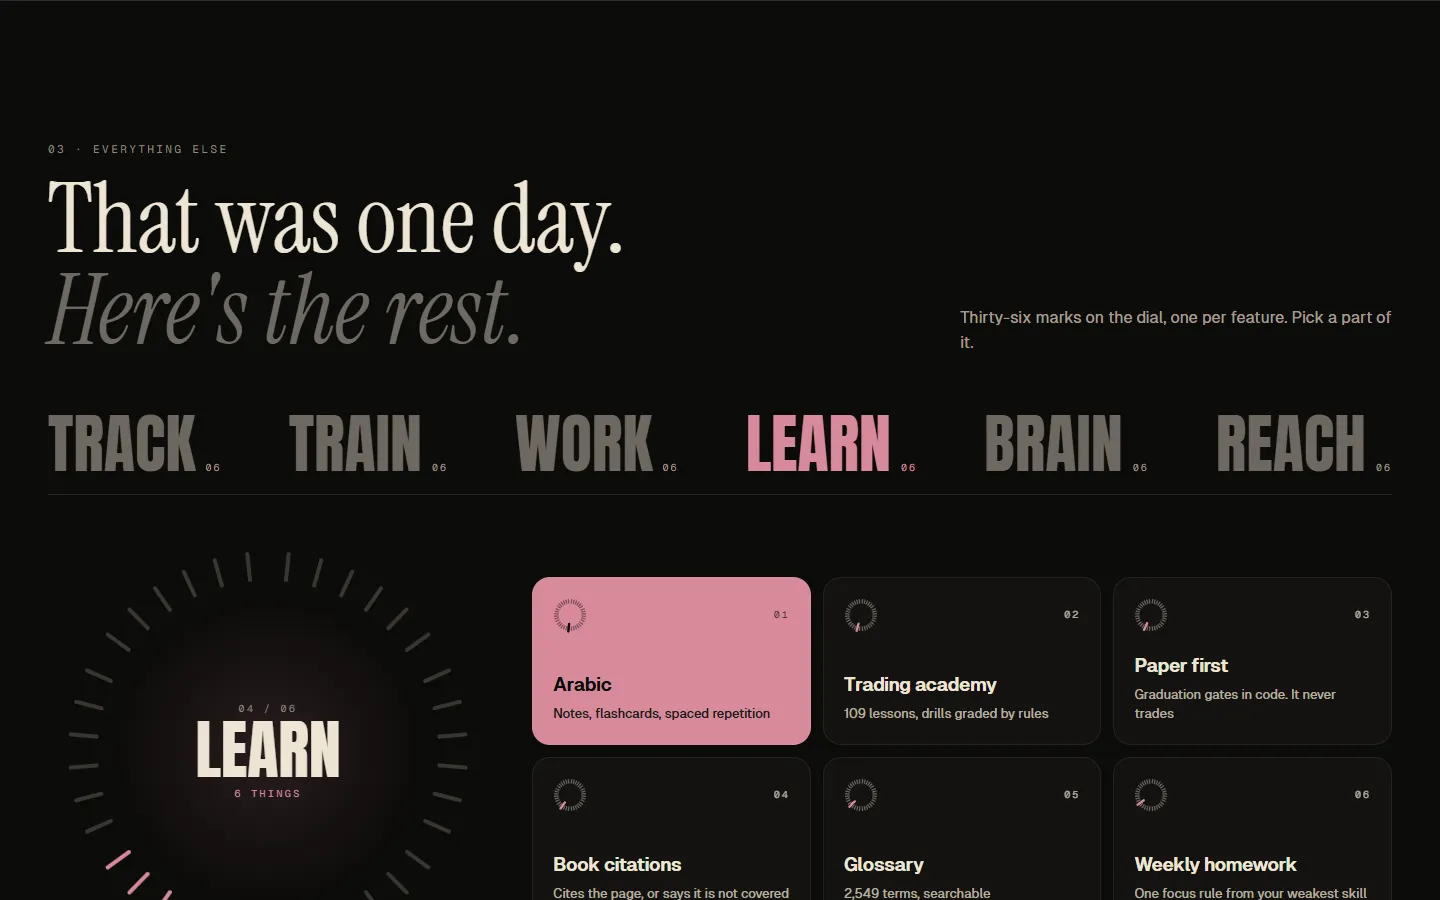
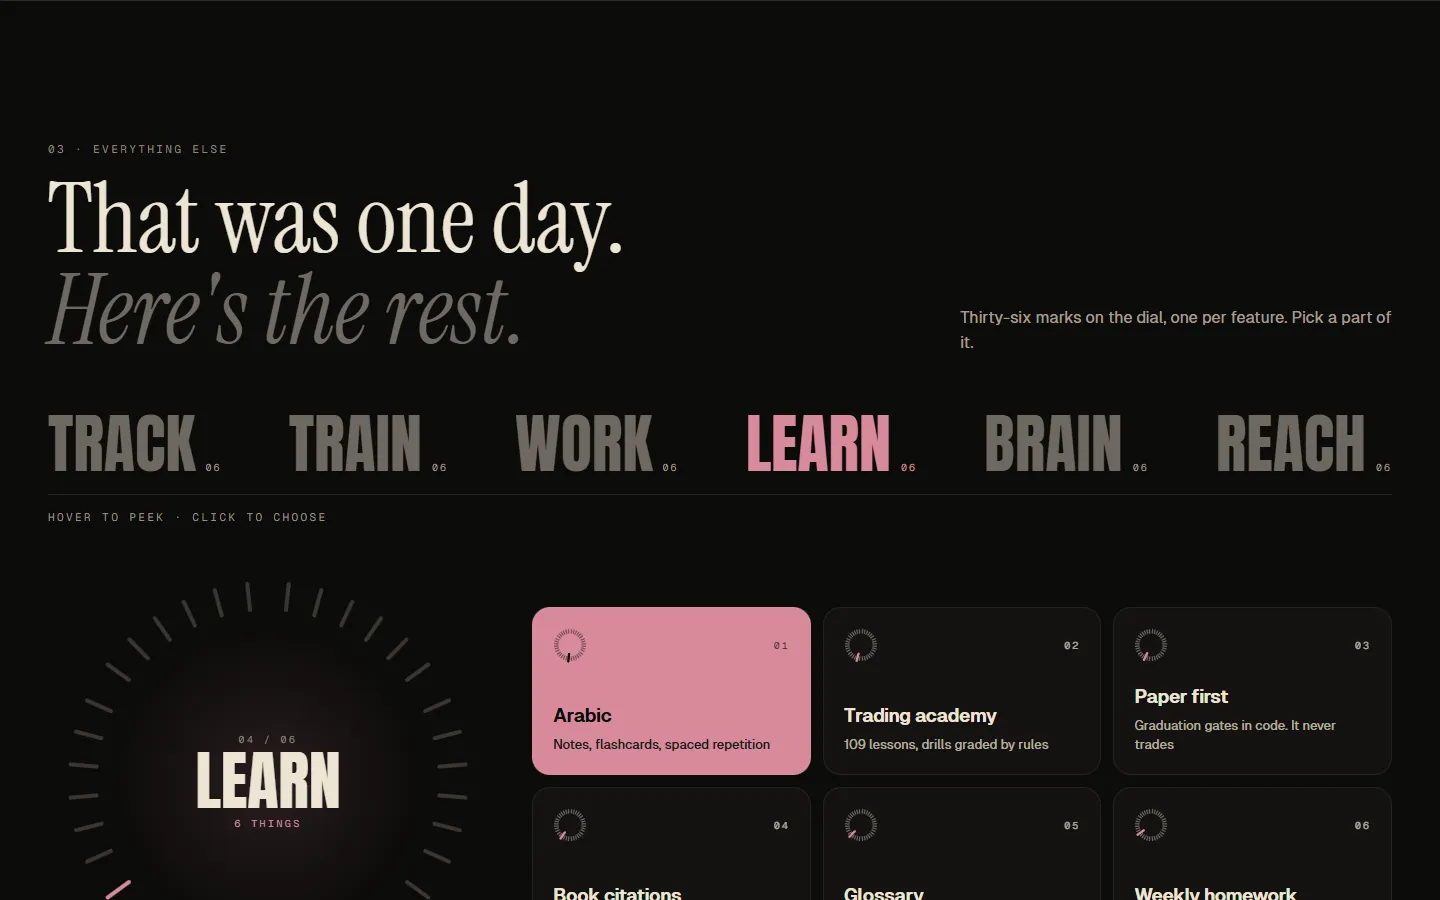
Section 03: hover to peek, click to choose
With a real hover pointer, resting on a word for ~120 ms previews its
group: the word lifts to the persona tint, and the ring's lit arc, the
centre label and the cards cross-fade to it. Leaving the row returns to
the chosen group; click and keyboard still select. Fades are taken over,
never stacked. A "HOVER TO PEEK · CLICK TO CHOOSE" hint sits under the
row on hover devices. Clicks now cross-fade too (0.3 s; peeks 0.22 s).
Four new tests; desktop-03-rest retaken.

diff --git a/tests/peek.spec.ts b/tests/peek.spec.ts
@@ -1,0 +1,89 @@
+// 03: hover to peek, click to choose (like the hero). Mouse with a fine pointer only; touch stays tap-only.
+import { test, expect, type Page } from '@playwright/test';
+
+const tab = (page: Page, name: string) => page.getByRole('tab', { name: new RegExp(`^${name}`, 'i') });
+const ringG = (page: Page) => page.locator('[data-ring-g]');
+const litGroups = (page: Page) => page.locator('.fring .mark.is-on').evaluateAll((ms) => [...new Set(ms.map((m) => (m as HTMLElement).dataset.g))]);
+
+test('hovering a word previews its group; leaving the row returns to the selection', async ({ page }) => {
+  await page.goto('./');
+  await page.locator('#everything').scrollIntoViewIfNeeded();
+  await expect(page.locator('.tabs__hint')).toBeVisible();
+  await expect(page.locator('.tabs__hint')).toHaveText('HOVER TO PEEK · CLICK TO CHOOSE');
+
+  await tab(page, 'Track').hover();
+  await expect(ringG(page)).toHaveText('Track');
+  await expect(page.locator('#panel-track')).toBeVisible();
+  await expect(page.locator('#panel-learn')).toBeHidden();
+  expect(await litGroups(page)).toEqual(['0']);
+  await expect(tab(page, 'Track')).toHaveClass(/is-peek/);
+  await expect.poll(() => tab(page, 'Track').evaluate((n) => getComputedStyle(n).color)).toBe('rgb(216, 138, 156)');
+  // a peek doesn't select
+  await expect(tab(page, 'Learn')).toHaveAttribute('aria-selected', 'true');
+
+  await page.locator('.fring__c').hover(); // off the row
+  await expect(ringG(page)).toHaveText('Learn');
+  await expect(page.locator('#panel-learn')).toBeVisible();
+  await expect(page.locator('#panel-track')).toBeHidden();
+  await expect(tab(page, 'Track')).not.toHaveClass(/is-peek/);
+
+  // click locks the choice; leaving keeps it
+  await tab(page, 'Brain').click();
+  await page.locator('.fring__c').hover();
+  await expect(ringG(page)).toHaveText('Brain');
+  await expect(page.locator('#panel-brain')).toBeVisible();
+  await expect(tab(page, 'Brain')).toHaveAttribute('aria-selected', 'true');
+});
+
+test('a quick pass over the words neither stacks fades nor switches before the intent delay', async ({ page }) => {
+  await page.goto('./');
+  await page.locator('#everything').scrollIntoViewIfNeeded();
+  const boxes = await Promise.all(['Track', 'Train', 'Work', 'Learn', 'Brain', 'Reach'].map((n) => tab(page, n).boundingBox()));
+  const y = boxes[0]!.y + boxes[0]!.height / 2;
+  // sweep the whole row in about 50 ms, then leave: nothing should have changed
+  await page.mouse.move(boxes[0]!.x + 5, y);
+  await page.mouse.move(boxes[5]!.x + 20, y, { steps: 3 });
+  await page.mouse.move(boxes[5]!.x + 20, y + 300);
+  await page.waitForTimeout(400);
+  await expect(ringG(page)).toHaveText('Learn');
+  await expect(page.locator('.bento:visible')).toHaveCount(1);
+
+  // a slower sweep ending on Reach: only Reach is left showing, fully opaque
+  for (const b of boxes) { await page.mouse.move(b!.x + b!.width / 2, y); await page.waitForTimeout(150); }
+  await page.waitForTimeout(500);
+  await expect(ringG(page)).toHaveText('Reach');
+  await expect(page.locator('.bento:visible')).toHaveCount(1);
+  await expect(page.locator('#panel-reach')).toBeVisible();
+  expect(await page.locator('#panel-reach').evaluate((n) => getComputedStyle(n).opacity)).toBe('1');
+});
+
+test('touch: no hover preview, no hint; a tap still selects', async ({ browser }) => {
+  const ctx = await browser.newContext({ viewport: { width: 1024, height: 900 }, isMobile: true, hasTouch: true });
+  const page = await ctx.newPage();
+  await page.goto('./');
+  expect(await page.evaluate(() => matchMedia('(hover: hover) and (pointer: fine)').matches)).toBe(false);
+  await page.locator('#everything').scrollIntoViewIfNeeded();
+  await expect(page.locator('.tabs__hint')).toBeHidden();
+  await tab(page, 'Track').hover();
+  await page.waitForTimeout(400);
+  await expect(ringG(page)).toHaveText('Learn');
+  await expect(page.locator('#panel-learn')).toBeVisible();
+  await tab(page, 'Track').tap();
+  await expect(ringG(page)).toHaveText('Track');
+  await expect(tab(page, 'Track')).toHaveAttribute('aria-selected', 'true');
+  await expect(page.locator('#panel-track')).toBeVisible();
+  await ctx.close();
+});
+
+test('keyboard: focus and arrows still select, with no peek state', async ({ page }) => {
+  await page.goto('./');
+  await tab(page, 'Learn').focus();
+  await page.keyboard.press('ArrowRight');
+  await expect(tab(page, 'Brain')).toBeFocused();
+  await expect(tab(page, 'Brain')).toHaveAttribute('aria-selected', 'true');
+  await expect(ringG(page)).toHaveText('Brain');
+  await expect(page.locator('#panel-brain')).toBeVisible();
+  await expect(page.locator('#panel-learn')).toBeHidden();
+  await expect(page.locator('.tabs')).not.toHaveClass(/is-peeking/);
+  await expect(page.locator('.tab.is-peek')).toHaveCount(0);
+});

diff --git a/src/features.ts b/src/features.ts
@@ -1,25 +1,57 @@
 // 03 · Everything else: an ARIA tablist (arrow keys, Home/End) driving the ring and the bento.
+// Like the hero: hover to peek (mouse only, ~120 ms intent), click to choose. Leaving the row goes back to the choice.
+import { gsap } from 'gsap';
 import { GROUPS, DEFAULT_GROUP } from './data/features';
+import { finePointer } from './lib/motion';
+
+const INTENT_MS = 120;
+const CLICK_S = 0.3;
+const PEEK_S = 0.22;
 
 export function initFeatures() {
-  const list = document.querySelector<HTMLElement>('.tabs[role="tablist"]');
-  if (!list) return;
+  const found = document.querySelector<HTMLElement>('.tabs[role="tablist"]');
+  if (!found) return;
+  const list = found;
   const tabs = [...list.querySelectorAll<HTMLButtonElement>('[role="tab"]')];
   const panels = tabs.map((t) => document.getElementById(t.getAttribute('aria-controls')!)!);
   const marks = [...document.querySelectorAll<HTMLElement>('.fring .mark')];
   const ringI = document.querySelector<HTMLElement>('[data-ring-i]')!;
   const ringG = document.querySelector<HTMLElement>('[data-ring-g]')!;
+  let selected = DEFAULT_GROUP;
+  let shown = DEFAULT_GROUP;
+  let timer = 0;
+
+  /** Shows group i in the ring and the bento, cross-fading the cards. Any fade still running is taken over. */
+  function show(i: number, seconds: number) {
+    list.classList.toggle('is-peeking', i !== selected);
+    tabs.forEach((t, k) => t.classList.toggle('is-peek', k === i && i !== selected));
+    if (i === shown) return;
+    shown = i;
+    marks.forEach((m) => m.classList.toggle('is-on', Number(m.dataset.g) === i));
+    ringI.textContent = `0${i + 1} / 06`;
+    ringG.textContent = GROUPS[i].g;
+    gsap.killTweensOf(panels);
+    panels.forEach((p, k) => {
+      if (k === i) {
+        // fade in from wherever it is (it may be halfway out from a quick pass over the row)
+        const from = p.hidden ? 0 : Number(gsap.getProperty(p, 'opacity'));
+        p.hidden = false;
+        gsap.fromTo(p, { opacity: from }, { opacity: 1, duration: seconds, ease: 'power1.out', clearProps: 'opacity' });
+      } else if (!p.hidden) {
+        gsap.to(p, { opacity: 0, duration: seconds, ease: 'power1.in', onComplete: () => { p.hidden = true; gsap.set(p, { clearProps: 'opacity' }); } });
+      }
+    });
+  }
 
   function select(i: number, focus = false) {
+    window.clearTimeout(timer);
+    selected = i;
     tabs.forEach((t, k) => {
       const on = k === i;
       t.setAttribute('aria-selected', String(on));
       t.tabIndex = on ? 0 : -1;
-      panels[k].hidden = !on;
     });
-    marks.forEach((m) => m.classList.toggle('is-on', Number(m.dataset.g) === i));
-    ringI.textContent = `0${i + 1} / 06`;
-    ringG.textContent = GROUPS[i].g;
+    show(i, CLICK_S);
     if (focus) tabs[i].focus();
   }
 
@@ -39,6 +71,20 @@ export function initFeatures() {
       e.preventDefault();
       select(go(i, tabs.length), true);
     });
+    t.addEventListener('pointerenter', (e) => {
+      if (e.pointerType !== 'mouse' || !finePointer()) return;
+      window.clearTimeout(timer);
+      timer = window.setTimeout(() => show(i, PEEK_S), INTENT_MS);
+    });
   });
-  select(DEFAULT_GROUP);
+  list.addEventListener('pointerleave', (e) => {
+    if (e.pointerType !== 'mouse') return;
+    window.clearTimeout(timer);
+    show(selected, PEEK_S);
+  });
+
+  // first paint: the default group, no fade
+  panels.forEach((p, k) => { p.hidden = k !== DEFAULT_GROUP; });
+  shown = -1;
+  show(DEFAULT_GROUP, 0);
 }

diff --git a/src/styles/sections.css b/src/styles/sections.css
@@ -5,14 +5,20 @@
 .tabs { display: flex; justify-content: space-between; gap: 12px; margin-top: 56px; padding-bottom: 18px; border-bottom: 1px solid rgba(237, 228, 211, .12); }
 .tab {
   all: unset; cursor: pointer; display: flex; align-items: baseline; gap: 10px; color: #6E6860;
-  transition: color .5s ease; border-radius: 6px;
+  transition: color .5s ease, transform .3s cubic-bezier(.2, .9, .1, 1); border-radius: 6px;
 }
 .tab:hover { color: #9A9284; }
 .tab[aria-selected='true'] { color: var(--acc); }
 .tab:focus-visible { outline: 2px solid var(--bone); outline-offset: 4px; }
 .tab__g { font-family: var(--display); font-size: clamp(34px, 4.45vw, 64px); line-height: 1; text-transform: uppercase; }
-.tab__n { font-family: var(--mono); font-size: 10px; letter-spacing: .2em; color: #A39C90; }
+.tab__n { font-family: var(--mono); font-size: 10px; letter-spacing: .2em; color: #A39C90; transition: color .5s ease; }
 .tab[aria-selected='true'] .tab__n { color: var(--acc); }
+/* hover to peek: the peeked word lifts to the persona tint; the chosen one steps back until the pointer leaves */
+.tab.is-peek, .tab.is-peek .tab__n { color: var(--acc); }
+.tab.is-peek { transform: translateY(-4px); }
+.tabs.is-peeking .tab[aria-selected='true']:not(.is-peek), .tabs.is-peeking .tab[aria-selected='true']:not(.is-peek) .tab__n { color: #9A9284; }
+.tabs__hint { display: none; margin: 14px 0 0; font-family: var(--mono); font-size: 11px; letter-spacing: .22em; color: #9A9284; }
+@media (hover: hover) and (pointer: fine) { .js .tabs__hint { display: block; } }
 .rest__body { display: flex; gap: 44px; align-items: center; margin-top: 36px; }
 .fring { position: relative; width: 440px; height: 440px; flex: none; }
 .mark {
@@ -29,6 +35,8 @@
 .fring__c .acc { letter-spacing: .24em; }
 .fring__g { font-family: var(--display); font-size: 64px; line-height: .9; text-transform: uppercase; }
 .panels { flex: 1; min-width: 0; }
+.js .panels { display: grid; }
+.js .bento { grid-area: 1 / 1; } /* stacked, so two groups can cross-fade */
 .bento { border-radius: 18px; }
 .bento:focus-visible { outline-offset: 6px; }
 .bento__grid { display: grid; grid-template-columns: repeat(3, minmax(0, 1fr)); gap: 12px; }

diff --git a/src/render/page.ts b/src/render/page.ts
@@ -82,6 +82,7 @@ function rest() {
       <p class="lede sect__lede">Thirty-six marks on the dial, one per feature. Pick a part of it.</p>
     </div>
     <div class="tabs" role="tablist" aria-label="Feature groups">${tabs}</div>
+    <p class="tabs__hint" aria-hidden="true">HOVER TO PEEK · CLICK TO CHOOSE</p>
     <div class="rest__body">
       <div class="fring" aria-hidden="true">${marks}
         <div class="fring__c"><span class="fring__i micro" data-ring-i>0${DEFAULT_GROUP + 1} / 06</span><span class="fring__g" data-ring-g>${GROUPS[DEFAULT_GROUP].g}</span><span class="micro acc">6 THINGS</span></div>

diff --git a/docs/BUILD-LOG.md b/docs/BUILD-LOG.md
@@ -45,6 +45,12 @@ Assumptions are numbered B1, B2, … and the safer choice was taken each time.
 - **B26. No-JS fallbacks.** All six feature groups render visible and JS turns them into tabs; the film links point to the README's film slot when JS is off.
 - **B27. Motion is always on (Zaid's call).** The OS reduced-motion setting no longer changes the page: many Windows laptops report "reduce" only because Animation effects is off. Every `prefers-reduced-motion` rule is gone from the CSS and JS (there was no GSAP `matchMedia`), so every visitor with JavaScript gets the full animated page: the hero intro, the pinned day, widget entries, loops and reveals. The still layout stays for no JavaScript and for windows under 520 px tall (B21). There is no motion toggle.
 - **B28. README images.** The hero (linked to the live site), a GIF of the day and a 2×2 grid of existing screenshots. `scripts/daygif.mjs` records the GIF (desktop, 12 fps, 11 s, 960 px, ffmpeg palettegen/paletteuse, 2.9 MB). It drives the page clock by hand, so frames are evenly spaced however slow the screenshots are. The README's images add up to 3.2 MB; only the GIF is new.
+- **B29. Section 03: hover to peek, click to choose** (like the hero).
+  - With a real hover pointer (`(hover: hover) and (pointer: fine)`, mouse events only), resting on a word for ~120 ms previews its group: the word lifts 4 px to the persona tint, the chosen word steps back to grey, and the ring's lit arc, the centre label and the six cards switch to it.
+  - Leaving the tab row returns to the chosen group. A click (or the keyboard, unchanged) selects and locks it. A peek never changes `aria-selected`.
+  - Before this, a click swapped the cards with no transition, so a click now cross-fades in 0.3 s and a peek in 0.22 s. The panels are stacked in one grid cell (with JS only) so two groups can cross-fade.
+  - Each change kills the running fades and continues from the current opacity, so a fast sweep doesn't stack animations. A pass shorter than the intent delay changes nothing.
+  - A hint under the row, "HOVER TO PEEK · CLICK TO CHOOSE", in the hero hint's style, only on hover devices with JS. Touch stays tap-only.
 
 ## Follow-up fixes (after Claude's screenshot review)
 
@@ -96,7 +102,7 @@ Two review passes ran after the first full build (separate reviewers).
 
 ## Tests and Lighthouse
 
-- **Playwright:** 38 tests, all passing (Chromium build 1243, 1440×900 and 390×844). The old reduced-motion test ("twelve still sections") was replaced by three tests that emulate reduced motion and check that the page still animates: the hero intro plays; the day is pinned and the 12:30 widgets animate in; on a phone the day is still pinned. The still layout is covered by the short-window and no-JS tests.
+- **Playwright:** 42 tests, all passing (Chromium build 1243, 1440×900 and 390×844). The old reduced-motion test ("twelve still sections") was replaced by three tests that emulate reduced motion and check that the page still animates: the hero intro plays; the day is pinned and the 12:30 widgets animate in; on a phone the day is still pinned. The still layout is covered by the short-window and no-JS tests. Four tests cover the 03 peek (B29): hover previews and leaving restores, a fast sweep doesn't stack or switch early, touch has no preview or hint, and the keyboard is unchanged.
 - **Lighthouse** (`npm run lighthouse`, local preview build):
 
 | | Performance | Accessibility | Best Practices | SEO |

diff --git a/docs/REPORT.md b/docs/REPORT.md
@@ -16,7 +16,7 @@ The Broski landing page (GitHub Pages) and the public README, built from the dec
   - Top bar: hour chips, the Bro/Zara switch, ▶ Play (about 25 s, press again to stop) and a progress line.
   - Phone: a small pinned dial, with the scene below at full width.
   - Motion is always on, whatever the OS reduced-motion setting says (Zaid's call, B27). Twelve still sections only without JavaScript or in windows under 520 px tall.
-- **03 Everything else.** Six Anton word tabs (an ARIA tablist with arrow keys and Home/End), the 36-mark ring and the bento. Learn is open first.
+- **03 Everything else.** Six Anton word tabs (an ARIA tablist with arrow keys and Home/End), the 36-mark ring and the bento. Learn is open first. Like the hero: hover to peek (mouse only, ~120 ms intent), click to choose.
 - **04 Under the hood.**
   - Tier cards.
   - The live gate: Yes / No / Try again.
@@ -51,7 +51,7 @@ The Broski landing page (GitHub Pages) and the public README, built from the dec
 
 ## Tests and Lighthouse
 
-- **Playwright:** 38 passing.
+- **Playwright:** 42 passing.
   - Load with no console errors and no third-party requests.
   - CSP and meta present; no cookies or storage written.
   - Persona recolouring and hover peek.
